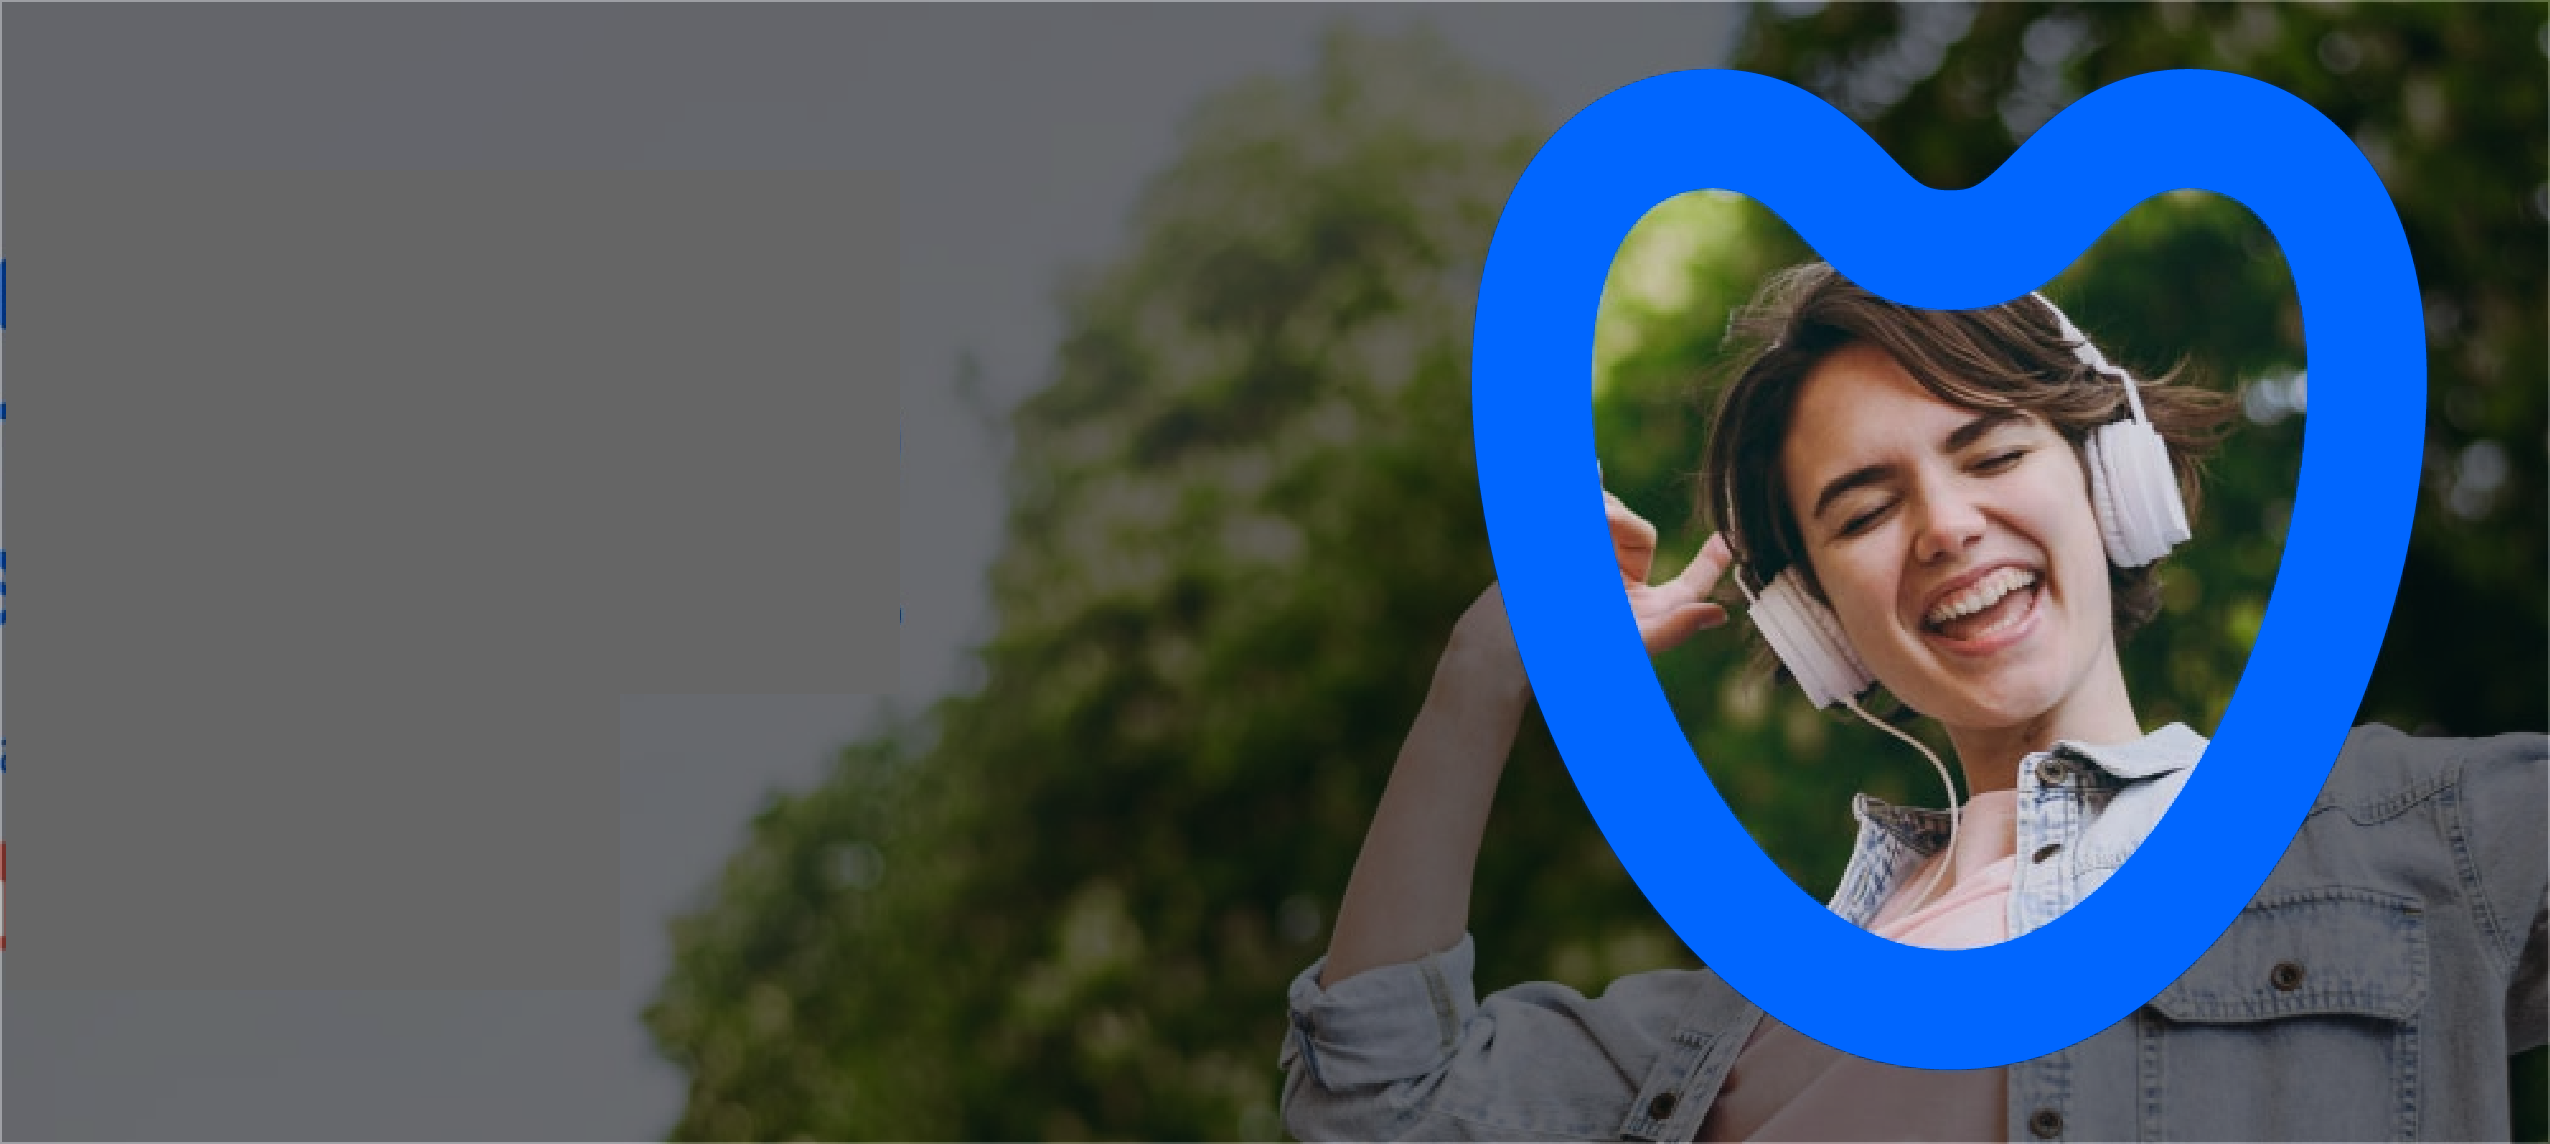
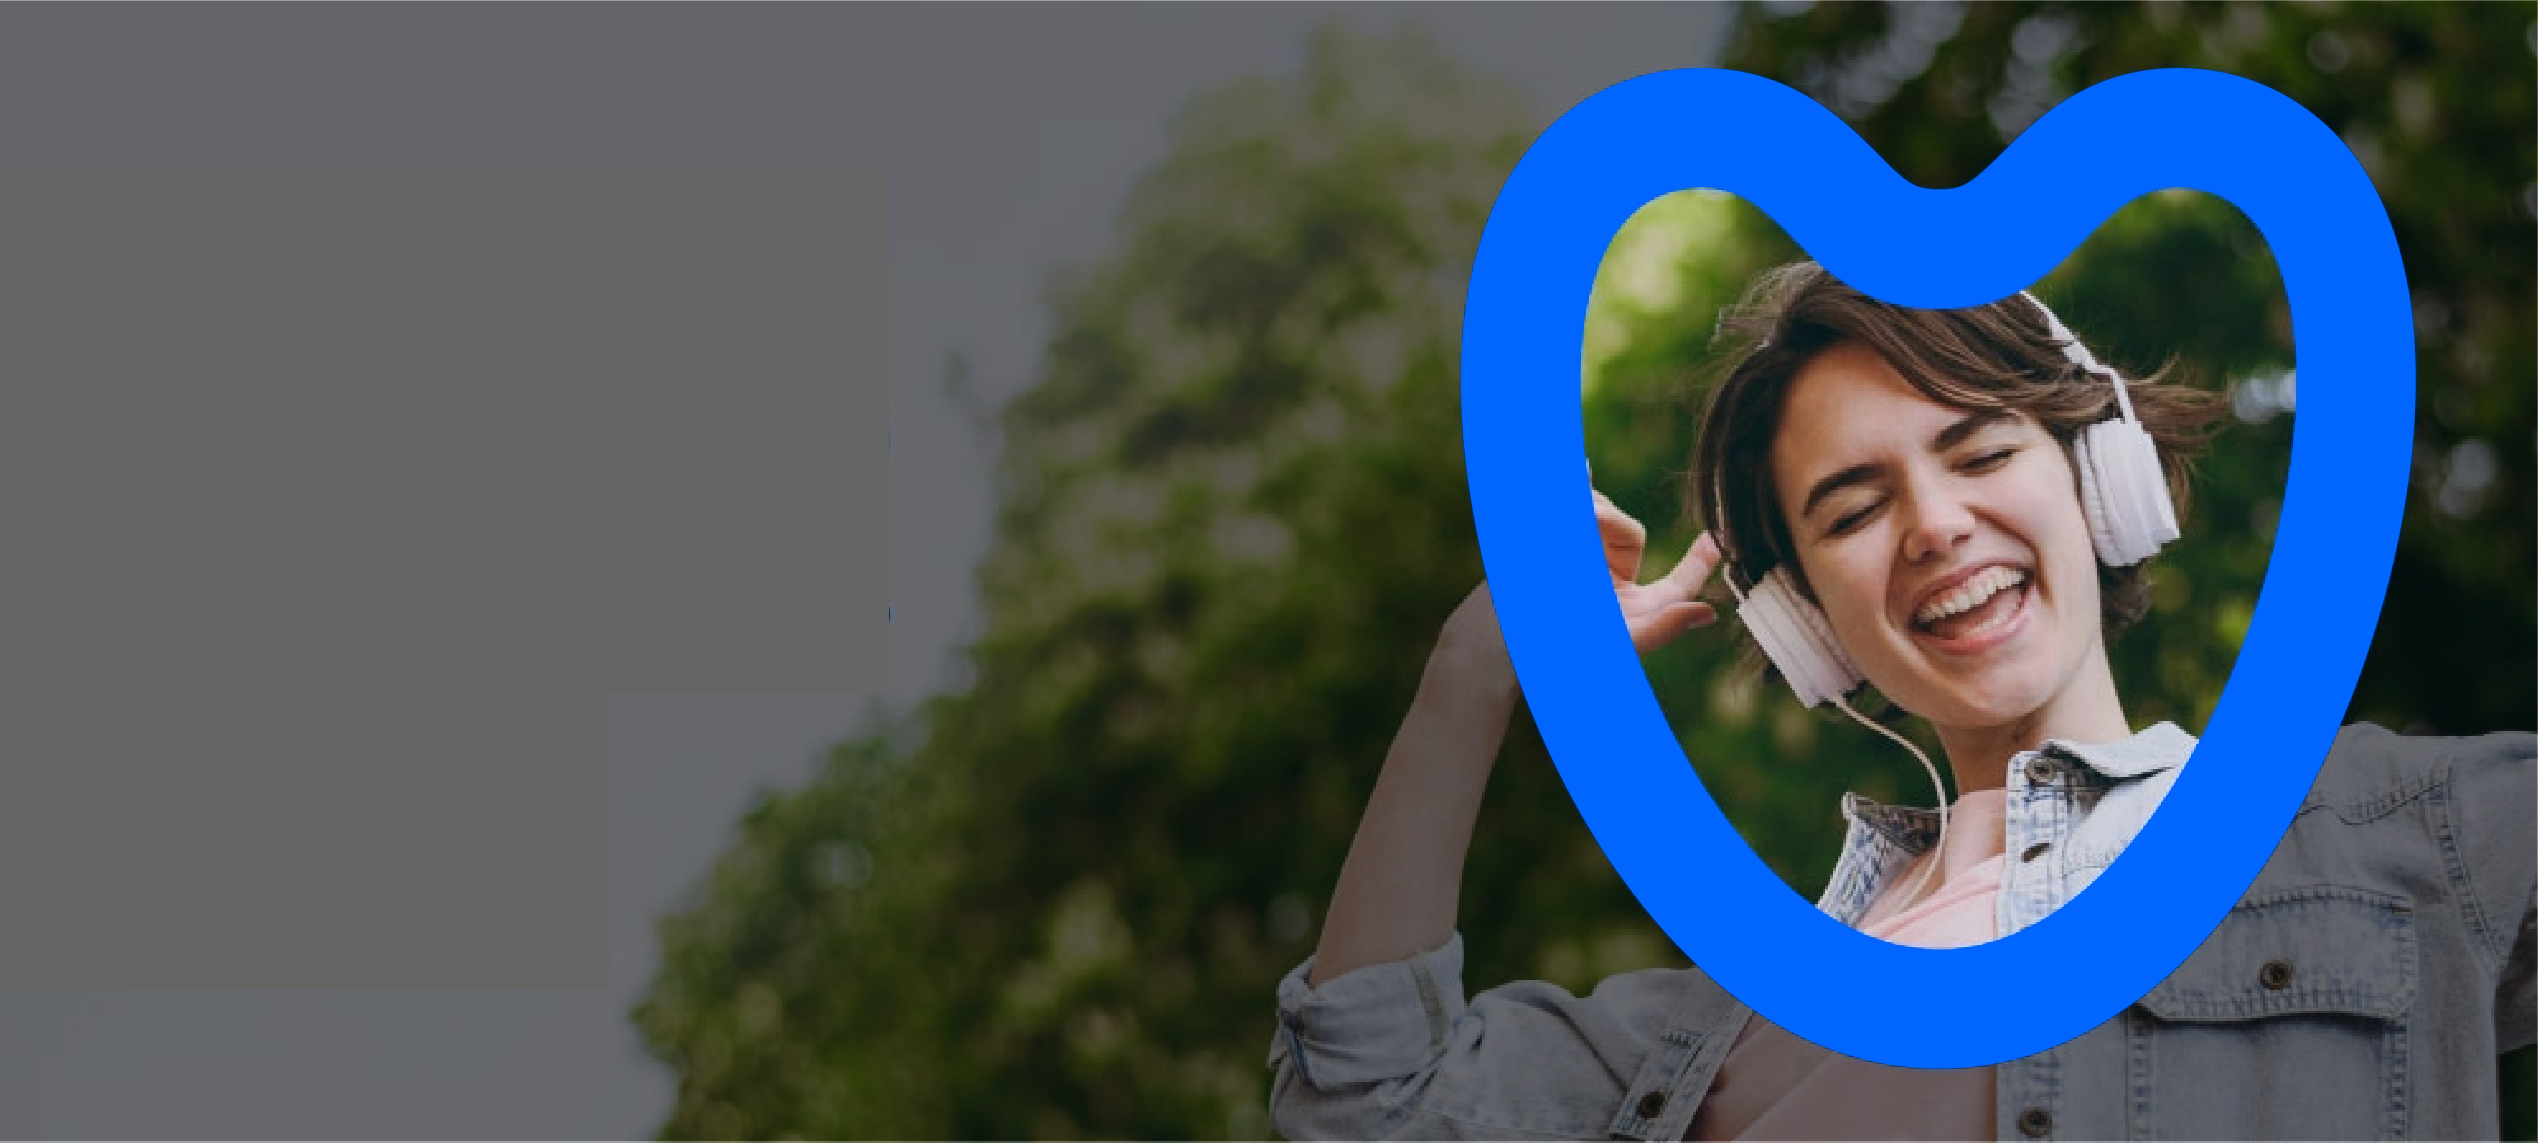
Alterações home

diff --git a/mocks/products.mock.ts b/mocks/products.mock.ts
@@ -62,7 +62,7 @@ const generateProducts = (): IProduct[] => [
     vantagens: '',
     coberturas: [
       {
-        cobertura: 'Cobertura Rol ANS',
+        cobertura: 'Cobertura completa Rol ANS',
         link: {
           text: 'Rol ANS',
           href: 'https://www.odontoprevonline.com.br/sites/default/files/Plano-Dente-de-Leite.pdf',
@@ -80,7 +80,7 @@ const generateProducts = (): IProduct[] => [
     mais_vendido: false,
     vantagens: '',
     coberturas: [{
-      cobertura: 'Cobertura Rol ANS',
+      cobertura: 'Cobertura completa Rol ANS',
       link: {
         text: 'Rol ANS',
         href: 'https://www.odontoprevonline.com.br/sites/default/files/Plano%20Dental%20Junior.pdf',
@@ -96,12 +96,12 @@ const generateProducts = (): IProduct[] => [
     mais_vendido: true,
     vantagens: '',
     coberturas: [{
-      cobertura: 'Cobertura Rol ANS',
+      cobertura: 'Cobertura completa Rol ANS',
       link: {
         text: 'Rol ANS',
         href: 'https://www.odontoprevonline.com.br/sites/default/files/bem-estar.pdf',
       },
-    }, { cobertura: 'Documentação Ortodôntica' }, { cobertura: 'Concorra a R$ 10.000 mensalmente' }],
+    }, { cobertura: 'Documentação Ortodôntica' }],
     logo: 'coracao',
     planos: generatePlans('Dental \nbem-estar\n mais'),
   },
@@ -112,12 +112,12 @@ const generateProducts = (): IProduct[] => [
     mais_vendido: false,
     vantagens: '',
     coberturas: [{
-      cobertura: 'Cobertura Rol ANS',
+      cobertura: 'Cobertura completa Rol ANS',
       link: {
         text: 'Rol ANS',
         href: 'https://www.odontoprevonline.com.br/sites/default/files/Plano-Dental-Estetica_0.pdf',
       },
-    }, { cobertura: 'Placa de clareamento + Gel' }, { cobertura: 'Documentação Ortodôntica' }, { cobertura: 'Concorra a R$ 10.000 mensalmente' }],
+    }, { cobertura: 'Placa de clareamento + Gel' }, { cobertura: 'Consulta em especialista Odonto Estética' }],
     logo: 'sorriso',
     planos: generatePlans('Dental \nEstética\n mais'),
   },
@@ -133,7 +133,7 @@ const generateProducts = (): IProduct[] => [
         text: 'Rol ANS',
         href: 'https://www.odontoprevonline.com.br/sites/default/files/Plano-Dental-Orto.pdf',
       },
-    }, { cobertura: 'Colocação + Manutenção de Aparelho' }, { cobertura: 'Placa de clareamento + Gel' }, { cobertura: 'Documentação Ortodôntica' }, { cobertura: 'Concorra a R$ 10.000 mensalmente' }],
+    }, { cobertura: 'Colocação + Manutenção de Aparelho' }, { cobertura: 'Documentação Ortodôntica' }],
     logo: 'dente-aparelho',
     planos: generatePlans('Dental\n Orto\n Total'),
   },

diff --git a/components/base/Footer.vue b/components/base/Footer.vue
@@ -17,24 +17,23 @@ const leftItems = [
   { text: 'Política de privacidade', href: '' },
   { text: 'Termos e condições', href: '' },
   { text: 'ANS', href: '' },
-  { text: 'Institucional', href: '' },
-  { text: 'Imprensa', href: '' },
-  { text: 'Trabalhe conosco', href: '' },
-  { text: 'Fornecedor', href: '' },
+  { text: 'Seja nosso corretor', href: '' },
 ]
 
 const rightItems = [
   { text: 'Porque comprar?', href: '' },
   { text: 'Encontre seu dentista', href: '' },
   { text: 'Conheça os planos', href: '' },
-  { text: 'Dúvidas Login', href: '' },
+  { text: 'Dúvidas', href: '' },
+  { text: 'Login', href: '' },
+
 ]
 
 const socialMedia: ISocialMedia[] = [
-  { svg: 'facebook', href: '' },
-  { svg: 'linkedin', href: '' },
-  { svg: 'youtube', href: '' },
-  { svg: 'instagram', href: '' },
+  { svg: 'facebook', href: 'https://www.facebook.com/OdontoprevOficial' },
+  { svg: 'linkedin', href: 'https://www.linkedin.com/company/odontoprev' },
+  { svg: 'youtube', href: 'https://www.youtube.com/user/OdontoPrevOficial' },
+  { svg: 'instagram', href: 'https://www.instagram.com/odontoprevoficial/?hl=en' },
 ]
 </script>
 
@@ -45,10 +44,8 @@ const socialMedia: ISocialMedia[] = [
         <NuxtLink to="/">
           <Icon name="logo-odontoPrev" color="white" secondary-color="white" width="260px" />
         </NuxtLink>
-        <v-btn variant="text" size="small" class="mt-4 mb-6 d-block">
-          odontoprev.com.br
-        </v-btn>
-        <div class="d-flex">
+
+        <div class="d-flex mt-8">
           <GroupLinks :items="leftItems" vertical variant="text" size="x-small" button-class="text-caption font-noto-sans" class="border-e-md border-opacity-100 border-primary-darken-2 pr-4" />
 
           <GroupLinks :items="rightItems" vertical variant="text" size="x-small" button-class="text-caption font-noto-sans" class="pl-4" />
@@ -60,7 +57,7 @@ const socialMedia: ISocialMedia[] = [
         <v-row :no-gutters="mdAndUp" align="end" justify="space-between" class="text-center text-md-left mt-4 mt-md-0">
           <v-col cols="12" md="auto">
             <p class="mb-2">
-              Deficientes auditivos
+              Deficientes visuais
             </p>
             <v-btn color="primary-darken-2" class="mb-2" size="small">
               0800 722 2191

diff --git a/components/shared/PlanCard.vue b/components/shared/PlanCard.vue
@@ -58,18 +58,23 @@ const handlePurshaseButton = (product: IProduct) => {
           </EnchantedText>
         </v-list-item>
       </v-list>
-      <a class="text-primary" href="https://www.google.com.br">Veja cobertura completa</a>
-      <a class="text-primary" href="https://www.google.com.br">Condições gerais do plano</a>
-      <v-btn color="primary" variant="outlined" rounded="lg" class="mt-4" :to="`/produtos/${product.sku}`">
-        Saiba mais
+      <p><a class="text-primary" href="https://www.google.com.br">Veja cobertura completa</a></p>
+      <p><a class="text-primary" href="https://www.google.com.br">Condições gerais do plano</a></p>
+      <v-btn color="primary" variant="outlined" rounded="lg" class="mt-4" :to="`/produtos/${product.sku}`" size="small">
+        <p>Saiba mais</p>
       </v-btn>
       <v-divider class="my-4" />
       <PriceTag v-if="plan" :value="plan.valorTitular" class="mx-auto" />
-      <v-btn color="secondary" variant="flat" rounded="lg" class="my-4" @click="handlePurshaseButton(product)">
-        Comprar
-      </v-btn>
+      <v-hover
+        v-slot="{ isHovering, props }"
+      >
+        <v-btn v-bind="props" color="secondary" :style="isHovering ? 'font-size: 20px' : ''" class="my-5" variant="flat" rounded="lg" :elevation="isHovering ? 24 : 0 " :size=" isHovering ? 'x-large' : 'large' " @click="handlePurshaseButton(product)">
+          COMPRAR
+        </v-btn>
+      </v-hover>
+
       <p>
-        Carência: 90 dias para tratamento e 180 dias para prótese.
+        Use em 90 dias para Clínico Geral e 180 dias para prótese.
       </p>
     </v-card-text>
 
@@ -91,7 +96,7 @@ const handlePurshaseButton = (product: IProduct) => {
   overflow: visible;
 
   &.most-valuable {
-    border-width: 2px;
+    border-width: 3px;
     position: relative;
 
     .badge {
@@ -102,7 +107,7 @@ const handlePurshaseButton = (product: IProduct) => {
       position: absolute;
       background-color: v-bind(borderColor);
       border-radius: 5px;
-      font-size: 11px;
+      font-size: 18px;
       color: white;
       display: flex;
       align-items: center;

diff --git a/components/ignore/home/odontoPrev/Section4.vue b/components/ignore/home/odontoPrev/Section4.vue
@@ -1,5 +1,18 @@
+<script setup lang="ts">
+import { CART_ROUTES } from '~~/types/cart'
+import type { IProduct } from '~~/types/product'
+
+const store = useCartStore()
+const product = await useProductStore().getProduct('2')
+
+const handlePurshaseButton = (product: IProduct) => {
+  store.addPlanoTitular(product)
+  navigateTo(CART_ROUTES.carrinho)
+}
+</script>
+
 <template>
-  <section id="odp-home-section-4" class="container-fluid md-inset-right bg-background pb-10 d-flex justify-end align-center">
+  <section id="plano-destaque" class="container-fluid md-inset-right bg-background pb-10 d-flex justify-end align-center">
     <div class="text-center text-md-left mx-lg-auto ml-md-auto">
       <h2 class="text-primary font-weight-bold mb-8 text-lg-center">
         Planos para você e sua família
@@ -15,7 +28,7 @@
           <p class="mb-8">
             Rol completo da ANS para que seu filho tenha a disposição nossa rede completa de dentistas.
           </p>
-          <v-btn min-width="210" color="secondary" class="rounded-lg ml-auto ml-md-0 mr-auto" size="large">
+          <v-btn min-width="210" color="secondary" class="rounded-lg ml-auto ml-md-0 mr-auto" size="large" @click="handlePurshaseButton(product)">
             CONTRATE AGORA
           </v-btn>
         </v-col>
@@ -28,7 +41,7 @@
 </template>
 
 <style lang="scss" scoped>
-#odp-home-section-4 {
+#plano-destaque {
     position: relative;
     min-height: 500px;
 
@@ -55,5 +68,11 @@
         }
       }
     }
+    @media (min-width: 1264px) {
+    &::before {
+      padding-left: 200px;
+    }
+  }
+
 }
 </style>

diff --git a/components/ignore/home/odontoPrev/Section1.vue b/components/ignore/home/odontoPrev/Section1.vue
@@ -9,14 +9,17 @@ const items = [
     },
     action: {
       text: 'CONTRATE AGORA',
-      href: '',
+      to: {
+        path: '/',
+        hash: '#plano-destaque',
+      },
     },
   },
 ]
 </script>
 
 <template>
-  <Hero id="odp-home-section-1" v-slot="{ item }: { item: typeof items[0] }" :items="items">
+  <Hero id="inicio" v-slot="{ item }: { item: typeof items[0] }" :items="items">
     <div style="max-width: 450px" class="text-white">
       <h1 class="mb-4 font-weight-bold">
         {{ item.content.title }}
@@ -27,7 +30,7 @@ const items = [
       <p class="mb-8">
         {{ item.content.caption }}
       </p>
-      <v-btn color="secondary" :href="item.action.href" size="x-large" class="rounded-lg">
+      <v-btn color="secondary" size="x-large" class="rounded-lg" :to="item.action.to">
         {{ item.action.text }}
       </v-btn>
     </div>

diff --git a/components/ignore/home/odontoPrev/Section6.vue b/components/ignore/home/odontoPrev/Section6.vue
@@ -20,7 +20,7 @@ const items = [
 </script>
 
 <template>
-  <section id="odp-home-section-6" class="container">
+  <section id="importancia-plano" class="container">
     <h2 class="text-primary font-weight-bold text-center mb-6">
       A importância de um plano dental
     </h2>
@@ -32,7 +32,7 @@ const items = [
 
     <ul class="container">
       <li v-for="({ text, icon }, index) in items" :key="index" class="text-main" :class="`content${index + 1}`">
-        <EnchantedText tag="h5">
+        <EnchantedText tag="h4">
           {{ text }}
         </EnchantedText>
         <Icon width="48" color="primary" secondary-color="primary-lighten-1" :name="icon" />
@@ -43,7 +43,7 @@ const items = [
 </template>
 
 <style lang="scss" scoped>
-#odp-home-section-6 {
+#importancia-plano {
 
   .container {
     display: grid;

diff --git a/components/ignore/home/odontoPrev/Section3.vue b/components/ignore/home/odontoPrev/Section3.vue
@@ -1,5 +1,5 @@
 <template>
-  <section id="odp-home-section-3" class="container-fluid md-inset bg-primary-darken-2 py-16">
+  <section id="rede-credenciada" class="container-fluid md-inset bg-primary-darken-2 py-16">
     <div class="text-center text-md-left mx-lg-auto mr-md-auto">
       <h2 class="text-primary-lighten-1 mb-6">
         A maior rede de atendimento do Brasil
@@ -34,13 +34,14 @@
 </template>
 
 <style lang="scss" scoped>
-#odp-home-section-3 {
+#rede-credenciada {
   position: relative;
 
   @media screen and (min-width: 600px) {
   > div {
       width: 100%;
       max-width: 50%;
+      margin-left: 132px;
     }
 
     &::after {
@@ -55,6 +56,5 @@
       background-position: right top;
     }
   }
-
 }
 </style>

diff --git a/components/ignore/home/odontoPrev/Section7.vue b/components/ignore/home/odontoPrev/Section7.vue
@@ -10,7 +10,7 @@ const logos = [
 </script>
 
 <template>
-  <section id="odp-home-section-7" class="container-fluid pb-16 bg-primary-darken-2 text-white">
+  <section id="clube-beneficios" class="container-fluid pb-16 bg-primary-darken-2 text-white">
     <div class="text-center text-md-left pt-8">
       <h2 class="font-weight-bold mb-6">
         Clube de benefícios Odontoprev
@@ -39,7 +39,7 @@ const logos = [
 <style lang="scss">
   $padding: 200px;
 
-#odp-home-section-7 {
+#clube-beneficios {
   overflow: hidden;
   padding-top: $padding;
   position: relative;

diff --git a/components/ignore/home/odontoPrev/Section5.vue b/components/ignore/home/odontoPrev/Section5.vue
@@ -3,7 +3,7 @@ const { fetchProducts } = useProductsApi()
 </script>
 
 <template>
-  <section id="odp-home-section-5" class="pb-16 ">
+  <section id="planos" class="pb-16 ">
     <div id="plans" class="px-0 container">
       <h2 class="text-primary text-center font-weight-bold mb-16">
         Os melhores planos para você
@@ -23,7 +23,7 @@ const { fetchProducts } = useProductsApi()
 </template>
 
 <style lang="scss" scoped>
-  #odp-home-section-5 {
+  #planos {
     :deep(.v-slide-group__container) {
       padding-top: 1rem;
 

diff --git a/components/ignore/produto/odontoPrev/Section1.vue b/components/ignore/produto/odontoPrev/Section1.vue
@@ -20,7 +20,7 @@ const items = [
 </script>
 
 <template>
-  <Hero id="odp-home-section-1" v-slot="{ item }: { item: typeof items[0] }" :items="items">
+  <Hero id="inicio" v-slot="{ item }: { item: typeof items[0] }" :items="items">
     <div style="max-width: 40%" class="text-white d-flex flex-column">
       <Icon :name="product.logo" color="white" secondary-color="primary-lighten-1" class="text-h1 mx-auto" />
       <h1 class="mb-4 font-weight-bold text-primary-lighten-1 text-uppercase">

diff --git a/components/ignore/home/odontoPrev/Section8.vue b/components/ignore/home/odontoPrev/Section8.vue
@@ -14,7 +14,7 @@ const items = [
 </script>
 
 <template>
-  <section id="odp-home-section-8" class="container-fluid pt-16">
+  <section id="testemunhos" class="container-fluid pt-16">
     <h2 class="font-weight-bold text-primary text-center mb-10">
       Veja o que nossos clientes dizem sobre a Odontoprev
     </h2>
@@ -48,7 +48,7 @@ const items = [
 </template>
 
 <style lang="scss" scoped>
-#odp-home-section-8 {
+#testemunhos {
   background-color: #F4F4F6;
 }
 </style>

diff --git a/components/ignore/home/odontoPrev/Section2.vue b/components/ignore/home/odontoPrev/Section2.vue
@@ -22,7 +22,7 @@ const items = [
 </script>
 
 <template>
-  <section id="odp-home-section-2" class="container-fluid bg-background py-16 text-center">
+  <section id="quem-somos" class="container-fluid bg-background py-16 text-center">
     <EnchantedText tag="h2" bold="Odontoprev" class="mb-8 mx-auto text-primary" :class="{ 'w-50': mdAndUp }">
       {{ `Odontoprev, a mais completa\n solução odontológica.` }}
     </EnchantedText>
